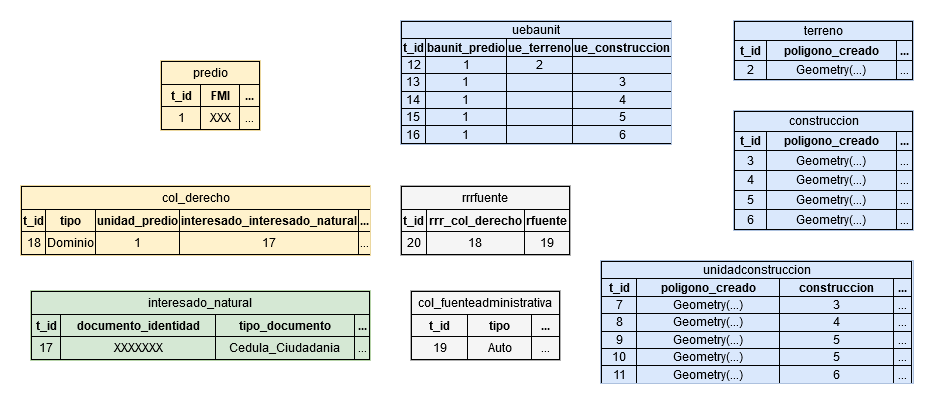
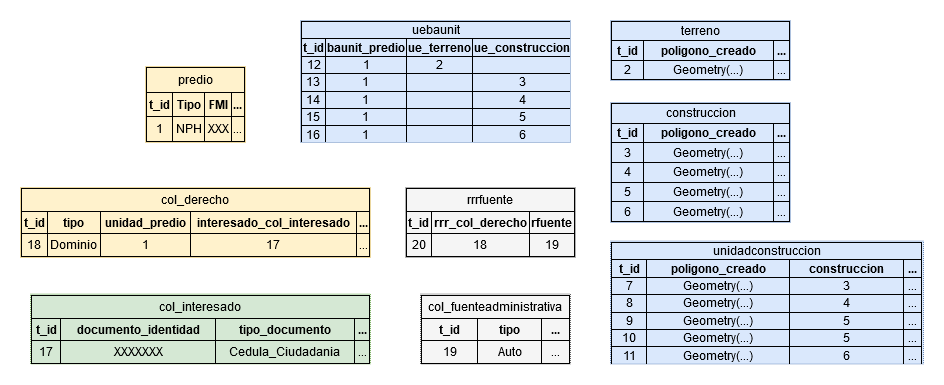
Se modifica el caso de NPH de acuerdo a actualización al modelo

diff --git a/nph/README.md b/nph/README.md
@@ -16,7 +16,7 @@ Para representar este caso de acuerdo a LADM se necesitarán de las siguientes t
 # Flujo de almacenamiento
 
 1. **Llenar tabla Terreno**: En esta tabla se agregan los datos relacionados con la representación espacial, tales como el área y la geometría, del polígono de terreno (verde)
-2. **Llenar tabla Predio**: En esta tabla se agregan datos alfanuméricos del predio, tales como el Número Predial, FMI, etc.
+2. **Llenar tabla Predio**: En esta tabla se agregan datos alfanuméricos del predio, tales como el Número Predial, FMI, etc; eligiendo como Tipo el valor "NPH".
 3. **Llenar relación UEBAUnit vinculando Terreno con Predio**
 4. **Llenar tabla Construccion**: Para el caso se agregan datos de 4 construcciones, una por cada polígono. 
 5. **Llenar relación UEBAUnit, vinculando Construcción con Predio**
